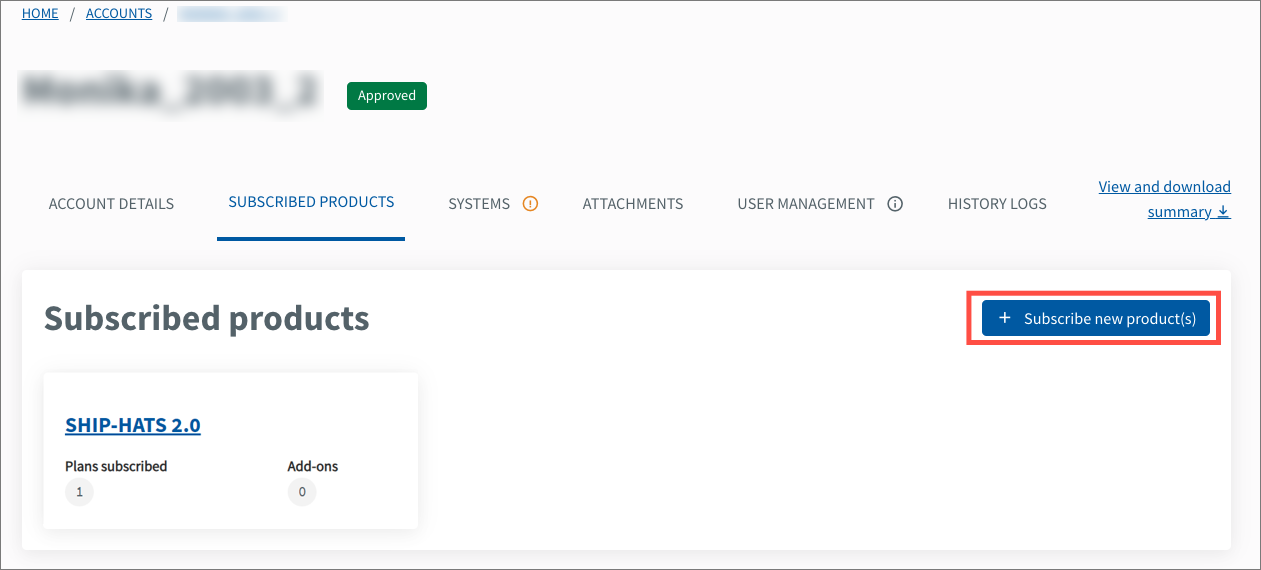
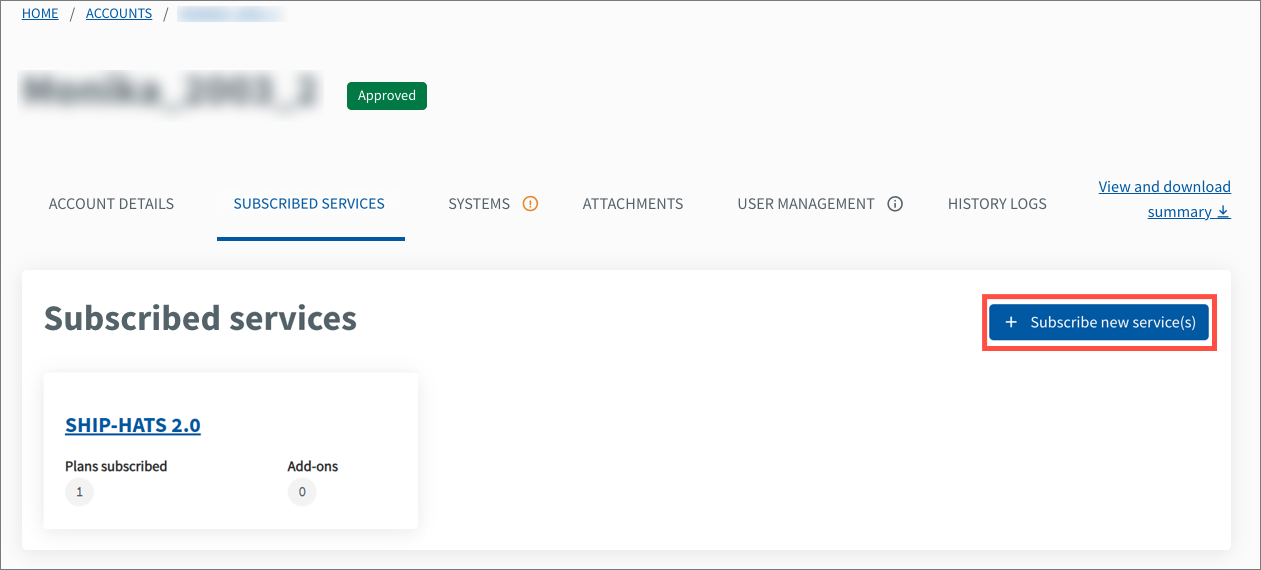
change prod to services

Changed region(s): [[0.7423, 0.507, 0.9897, 0.6263], [0.1856, 0.5368, 0.3093, 0.5965], [0.1856, 0.3281, 0.3093, 0.3877]]

diff --git a/create-subscription-acc/request-for-techbiz-account.md b/create-subscription-acc/request-for-techbiz-account.md
@@ -1,8 +1,8 @@
 # Create subscription account
 
-To subscribe to [Singapore Government Tech Stack (SGTS)](https://www.developer.tech.gov.sg/singapore-government-tech-stack/overview/index.html) Products, agencies need to have an account in TechBiz.
+To subscribe to [Singapore Government Tech Stack (SGTS)](https://www.developer.tech.gov.sg/singapore-government-tech-stack/overview/index.html) Services, agencies need to have an account in TechBiz.
 
-A TechBiz account allows agencies to subscribe to SGTS Products, add systems to the account, manage subscription plans and view billing details. An agency can have one account for multiple systems or an account for each system.
+A TechBiz account allows agencies to subscribe to SGTS Services, add systems to the account, manage subscription plans and view billing details. An agency can have one account for multiple systems or an account for each system.
 
 > **Note**: Agencies can opt for one account with multiple systems or multiple accounts for each system. Refer to [FAQs](faq.md) for more information.
 
@@ -69,7 +69,7 @@ Have the following information ready before proceeding:
 | :------------------------------------------ | ------------------ |
 | **Agency name** | Select your agency name from the drop-down list. |
 | **Account name** | Enter the account name.</br>Account name can only contain alphanumeric characters. |
-| **Account ID** | A unique **Account ID** is automatically generated and cannot be edited. Your **Account ID** is common across all SGTS Products that your agency has subscribed to under this account. <br><br> **Note:** It is recommended to record your account ID** |
+| **Account ID** | A unique **Account ID** is automatically generated and cannot be edited. Your **Account ID** is common across all SGTS Services that your agency has subscribed to under this account. <br><br> **Note:** It is recommended to record your account ID** |
 
 2. Enter the **Subscription admins** details.
 
@@ -109,10 +109,10 @@ Have the following information ready before proceeding:
 
 
 
-## Step 3: Select SGTS Products for subscription
+## Step 3: Select SGTS Services for subscription
 
 
-In **Select product(s)**, choose the required **SGTS Service(s)** and click **Next**.
+In **Select service(s)**, choose the required **SGTS Service(s)** and click **Next**.
 
 
 ## Step 4: Select subscription plans
@@ -130,11 +130,11 @@ In **Select product(s)**, choose the required **SGTS Service(s)** and click **Ne
 
 | **Field Name** | **Description** |
 | :------------------------------------------ | ------------------ |
-| **Select subscription period** | Select the start date of the subscription. </br></br>This is the date when your agency intends to start using the subscribed SGTS Products. |
+| **Select subscription period** | Select the start date of the subscription. </br></br>This is the date when your agency intends to start using the subscribed SGTS Services. |
 | **Product agreement** | Click to view the terms and conditions of the product. |
-| **Select a plan** | Select the required subscription plan for a product.</br></br>The displayed subscription plans contain details of the chargeable items in a product and their charges. |
+| **Select a plan** | Select the required subscription plan for a product.</br></br>The displayed subscription plans contain details of the chargeable items in a service and their charges. |
 
-4. If you are subscribing to more than one SGTS product, repeat **steps 2-3** and click **Next**.
+4. If you are subscribing to more than one SGTS services, repeat **steps 2-3** and click **Next**.
 
 
 

diff --git a/manage-subscriptions.md b/manage-subscriptions.md
@@ -4,7 +4,7 @@ This section guides how subscription admins can do the following for an existing
 
 - [View subscription details](#view-subscription-details)
 - [Edit subscription details](#edit-subscription-details)
-- [Subscribe to other SGTS Products](#subscribe-to-other-sgts-products)
+- [Subscribe to other SGTS Services](#subscribe-to-other-sgts-services)
 - [Cancel subscription](#cancel-subscription)
 
 ## Audience
@@ -22,14 +22,14 @@ This section guides how subscription admins can do the following for an existing
 
 ## View subscription details
 
-Billing and subscription admins can view the subscription plans and their details of the SGTS Products subscribed using a TechBiz account.
+Billing and subscription admins can view the subscription plans and their details of the Services subscribed using a TechBiz account.
 
 **To view the subscription details of a TechBiz account**
 
 1. From the sidebar, click **Accounts**.
 2. Select **APPROVED** from the **Status** dropdown list to view all the approved accounts.
 3. Select the required account.
-4. Click **SUBSCRIBED PRODUCTS** tab.
+4. Click **SUBSCRIBED SERVICES** tab.
 
 <kbd><img src="images/sub-tab.png" alt="drawing" width="100%"/></kbd>
 
@@ -49,14 +49,14 @@ The **Plan details** are displayed.
 
 ## Edit subscription details
 
-**Subscription admins** can edit subscription details such as start date and subscription plans. You can also [add other SGTS Products to the existing subscriptions](#subscribe-to-other-sgts-products).
+**Subscription admins** can edit subscription details such as start date and subscription plans. You can also [add other SGTS Services to the existing subscriptions](#subscribe-to-other-sgts-services).
 
 **To edit subscription details of a TechBiz account**
 
 1. From the sidebar, click **Accounts**.
 2. Select **APPROVED** from the **Status** dropdown list to view all the approved accounts.
 3. Select the required account.
-4. Click **SUBSCRIBED PRODUCTS** tab.
+4. Click **SUBSCRIBED Services** tab.
 
 <kbd><img src="images/sub-tab.png" alt="drawing" width="100%"/></kbd>
 
@@ -79,20 +79,20 @@ The **Plan details** are displayed.
 
 10. When prompted to confirm the changes, click **Confirm**.
 
-## Subscribe to other SGTS Products
+## Subscribe to other SGTS Services
 
-Subscription admins can subscribe to other SGTS Products using TechBiz portal.
+Subscription admins can subscribe to other SGTS Services using TechBiz portal.
 
-**To subscribe to other SGTS products**
+**To subscribe to other SGTS services**
 
 1. From the sidebar, click **Accounts**.
 2. Select **APPROVED** from the **Status** dropdown list to view all the approved accounts.
 3. Select the required account.
-4. Click **SUBSCRIBED PRODUCTS** tab \> **Add subscription**.
+4. Click **SUBSCRIBED SERVICES** tab \> **Add subscription**.
 
 <kbd><img src="images/add-sub.png" alt="drawing" width="100%"/></kbd>
 
-5. Select the required SGTS Products and click **Next**.
+5. Select the required SGTS Services and click **Next**.
 
 For more information, go to [**Create subscription account**](request-for-techbiz-account.md) and follow from step 4 onwards to complete the subscription.
 

diff --git a/manage-user-access-subscribed-sgts-products.md b/manage-user-access-subscribed-sgts-products.md
@@ -1,6 +1,6 @@
 # Manage user access
 
-Subscription and technical admins can control user access to the SGTS Products they have subscribed to. Subscription admins can manage both account and system user access, while technical admins can only manage system user access for the systems they are designated as admins.
+Subscription and technical admins can control user access to the SGTS Services they have subscribed to. Subscription admins can manage both account and system user access, while technical admins can only manage system user access for the systems they are designated as admins.
 
 > **Note:** Refer to the description text located underneath the tool label to understand the functionalities that the tool controls access to.
 
@@ -20,7 +20,7 @@ Subscription and technical admins can control user access to the SGTS Products t
 
 ## Add or remove users
 
-Subscription and technical admins can control user access to the SGTS Products they have subscribed to. Subscription admins can manage both account and system user access, while technical admins can only manage system user access for the systems they are designated as admins.
+Subscription and technical admins can control user access to the SGTS Services they have subscribed to. Subscription admins can manage both account and system user access, while technical admins can only manage system user access for the systems they are designated as admins.
 
 > **Note:** Refer to the description text located underneath the tool label to understand the functionalities that the tool controls access to.
 
@@ -33,7 +33,7 @@ Subscription and technical admins can control user access to the SGTS Products t
 
 <kbd><img src="images/user-man.png" alt="drawing" width="100%"/></kbd>
 
-5. Select the required product from the **Products** dropdown list to select the SGTS product tools to manage.
+5. Select the required product from the **Services** dropdown list to select the SGTS service tools to manage.
 6. Select the required tool to add users. For example, GitLab.
 
 <kbd><img src="images/manage-users.png" alt="drawing" width="100%"/></kbd>
@@ -86,7 +86,7 @@ Subscription and technical admins can control user access to the SGTS Products t
 2. Select **APPROVED** from the **Status** dropdown list to view all the approved accounts.
 3. Select the required account.
 4. Click **USER MANAGEMENT** tab.
-5. Select the required product from the **Products** dropdown list to select the SGTS product tools to manage.
+5. Select the required product from the **Services** dropdown list to select the SGTS product tools to manage.
 6. Select the required tool to remove users. For example, GitLab.
 
 <kbd><img src="images/manage-users.png" alt="drawing" width="100%"/></kbd>

diff --git a/create-techbiz-system.md b/create-techbiz-system.md
@@ -2,7 +2,7 @@
 
 A TechBiz system allows agencies to share usage of their [Singapore Government Tech Stack (SGTS)](https://www.developer.tech.gov.sg/singapore-government-tech-stack/overview/index.html) product subscriptions which can be configured and managed individually. A system is connected to a TechBiz account. An account can have multiple systems. Refer to the [FAQ](https://docs.developer.tech.gov.sg/docs/techbiz-documentation/faq) for more information.
 
-Agencies need to add and configure TechBiz systems to manage the subscribed SGTS products.
+Agencies need to add and configure TechBiz systems to manage the subscribed SGTS services.
 
 This sections guides how subscription admins can create a TechBiz system using a TechBiz account.
 
@@ -31,7 +31,7 @@ This sections guides how subscription admins can create a TechBiz system using a
 | **Field Name** | **Description** |
 | --- | --- |
 | **System name** | Enter the system name.</br><br/> **Note:** System name can have a minimum of 1 character and maximum of 50 characters. |
-| **TechBiz system ID** | A unique TechBiz system ID is automatically generated and cannot be edited. The TechBiz system ID is common across all subscribed SGTS products under this account. |
+| **TechBiz system ID** | A unique TechBiz system ID is automatically generated and cannot be edited. The TechBiz system ID is common across all subscribed SGTS services under this account. |
 | **System Description** | Enter the description of the system. |
 | **Digital Governance Platform (DGP) ID** | Indicate if your system has a DGP ID. Select **Yes** , **I have a DGP ID** or **No, I do not have a DGP ID**. </br> </br> **Note:** Refer to [FAQ](https://docs.developer.tech.gov.sg/docs/techbiz-documentation/faq) for more information. |
 | **Sub-system ID and description** | The sub-system DGP ID and description will be available if **Yes, I have a DGP ID** is selected. Select your DGP System ID. The System description will automatically appear. </br></br> **Note:** If you are unable to locate your DGP ID, click **No, I do not have a DGP ID** and update it when it is available. <br><br> For more information, approach your assigned DGP Agency Coordinator. Refer to [Role of Agency Coordinator and Contributor](https://ssp.dgp.tech.gov.sg/Faq) </br></br> |
@@ -52,4 +52,4 @@ The system record appears on the **Systems** page with status as **Pending Confi
 
 <kbd><img src="images/pending-config.png" alt="drawing" width="100%"/></kbd>
 
-Proceed to [Add and configure products](add-and-configure-products.md)  complete the configuration.
+Proceed to [Add and configure services](add-and-configure-products.md)  complete the configuration.

diff --git a/invite-users.md b/invite-users.md
@@ -39,7 +39,7 @@ Refer to the following for more information on the required details.
 | <div style="width:270px">Field Name</div>  | Description |
 | :------------------------------------------ |:-------------|
 | **Email address** | Enter the email address of the public officer who requires a TechPass account. Email address must be in the format of \<your_name>@\<acronym for your agency>.gov.sg. for public officers.<br> |
-| **Is onboarding to [SEED](https://docs.developer.tech.gov.sg/docs/security-suite-for-engineering-endpoint-devices/#/) required?** | Select **Yes** if the public officer needs SEED provisioning.<br /><br /> **Note**: SEED provisioning is needed to access SGTS Products from the Internet device. |
+| **Is onboarding to [SEED](https://docs.developer.tech.gov.sg/docs/security-suite-for-engineering-endpoint-devices/#/) required?** | Select **Yes** if the public officer needs SEED provisioning.<br /><br /> **Note**: SEED provisioning is needed to access SGTS Services from the Internet device. |
 | **Reason** | Enter the **Reason** why the public officer needs a TechPass account. |
 
 ## Create single account
@@ -61,7 +61,7 @@ Refer to the following for more information on the required details.
 | **Email address**| Enter the organisational email address of the vendor who requires a TechPass account. </br></br> **Note:** The email address must be the email address provided by the vendor. |
 | **TechPass username** | Enter the required username for the TechPass account. </br></br> **Note**: TechPass username is not required for a public officer. |
 | **First name,** **Last name,** **Contact number,** **Organisation, and Department**| Enter the required details.<br />**Note: Department** is optional. |
-| **Is onboarding to [SEED](https://docs.developer.tech.gov.sg/docs/security-suite-for-engineering-endpoint-devices/#/) required?** | Indicate **Yes** if the vendor needs SEED provisioning.<br /><br />**Note**: SEED provisioning is needed to access SGTS Products from the Internet device. |
+| **Is onboarding to [SEED](https://docs.developer.tech.gov.sg/docs/security-suite-for-engineering-endpoint-devices/#/) required?** | Indicate **Yes** if the vendor needs SEED provisioning.<br /><br />**Note**: SEED provisioning is needed to access SGTS Services from the Internet device. |
 | **Reason** | Enter the **Reason** why the vendor needs a TechPass account. |
 
 ## Create multiple accounts

diff --git a/home.md b/home.md
@@ -9,7 +9,7 @@ Welcome to the TechBiz documentation!
 | [Manage draft request](create-subscription-acc/manage-draft-request.md) </br></br> Manage your draft subscription account. | [Resubmit account request](create-subscription-acc/resubmit-techbiz-account-application.md)</br></br> Resubmit your account request.  |
 |  [Manage subscriptions](manage-subscriptions.md) </br></br> Get information on managing your subscriptions. |  [Manage subscription account](manage-techbiz-account.md)</br></br> Get information on managing your subscription account. |
 | [Create system](create-techbiz-system.md) </br></br> Create a system on TechBiz. | [Manage system](manage-techbiz-system.md)</br></br> Manage your existing systems. |
-| [Add and configure products](add-and-configure-products.md) </br></br> Add and configure products to your system. | [User management](manage-user-access-subscribed-sgts-products.md) </br></br> Use TechBiz to add or remove users. |
+| [Add and configure services](add-and-configure-products.md) </br></br> Add and configure services to your system. | [User management](manage-user-access-subscribed-sgts-products.md) </br></br> Use TechBiz to add or remove users. |
 | [Create TechPass accounts](invite-users.md)</br></br> Use TechBiz to create TechPass accounts. | [Raise a service request](https://go.gov.sg/techBiz-sr) </br></br> Get in touch with our support team. |
 
 

diff --git a/techBiz-overview.md b/techBiz-overview.md
@@ -1,7 +1,7 @@
 # TechBiz Overview
 
-TechBiz is a service management tool that helps government officers discover, subscribe, and manage SGTS Products on a single console.
+TechBiz is a service management tool that helps government officers discover, subscribe, and manage SGTS Services on a single console.
 
-By integrating all SGTS Products into a single console and offering a consistent and streamlined interface for users, TechBiz overcomes the complexity of reconciling subscription plans, resource usage and invoicing data across multiple Products as more SGTS Products are rolled out across the government.
+By integrating all SGTS Services into a single console and offering a consistent and streamlined interface for users, TechBiz overcomes the complexity of reconciling subscription plans, resource usage and invoicing data across multiple Services as more SGTS Services are rolled out across the government.
 
 

diff --git a/add-and-configure-products.md b/add-and-configure-products.md
@@ -1,14 +1,14 @@
-# Add and configure products
+# Add and configure services
 
-Agencies need to add the subscribed SGTS Products required for the system(s) and configure the Products for each TechBiz system.
+Agencies need to add the subscribed SGTS Services required for the system(s) and configure the Services for each TechBiz system.
 
-**To add and configure subscribed products**
+**To add and configure subscribed services**
 
 1. From the sidebar, click **Accounts**.
 2. Go to the required TechBiz account.
 3. Click **SYSTEMS**.
 4. Choose the required system and click **Manage**.
-5. Go to **PRODUCTS** \> **Add Products**.
+5. Go to **SERVICES** \> **Add Services**.
 
 > **Note:** Each SGTS service will have different requirements for product configuration. Click the triangle to view product configuration instructions for the required SGTS service.
 

diff --git a/manage-announcements.md b/manage-announcements.md
@@ -1,6 +1,6 @@
 # Manage announcements
 
-This section guides how administrators can create announcements and manage them on [TechBiz portal.](https://portal.techbiz.suite.gov.sg/) Announcements allow SGTS product owners to broadcast messages on TechBiz portal. It appears as a pop up after a user has logged in to TechBiz portal.
+This section guides how administrators can create announcements and manage them on [TechBiz portal](https://portal.techbiz.suite.gov.sg/). Announcements allow SGTS product owners to broadcast messages on TechBiz portal. It appears as a pop up after a user has logged in to TechBiz portal.
 
 <kbd><img src="images/announcement.png" alt="drawing" width="100%"/></kbd>
 

diff --git a/glossary.md b/glossary.md
@@ -13,7 +13,7 @@ Government standard image build (GSIB) is a standard operating environment (SOE)
 A non-secured email (SE) GSIB device.
 
 **Account**
-A TechBiz account allows agencies to subscribe to SGTS Products, add systems to the account, manage subscription plans and view billing details. An agency can have one account for multiple systems or an account for each system.
+A TechBiz account allows agencies to subscribe to SGTS Services, add systems to the account, manage subscription plans and view billing details. An agency can have one account for multiple systems or an account for each system.
 
 **System**
 

diff --git a/faq.md b/faq.md
@@ -18,7 +18,7 @@ All agencies are required to onboard DGP as part of the efforts to strength ICT&
 </details>
 <br>
 <details>
-<summary style="font-size:20px;font-weight:bold">Can I use SGTS Products if I have not provided the DGP ID?   </summary>
+<summary style="font-size:20px;font-weight:bold">Can I use SGTS Services if I have not provided the DGP ID?   </summary>
 
 Yes. However, you must register the system in DGP and provide the DGP ID on the TechBiz portal. 
 </details>
